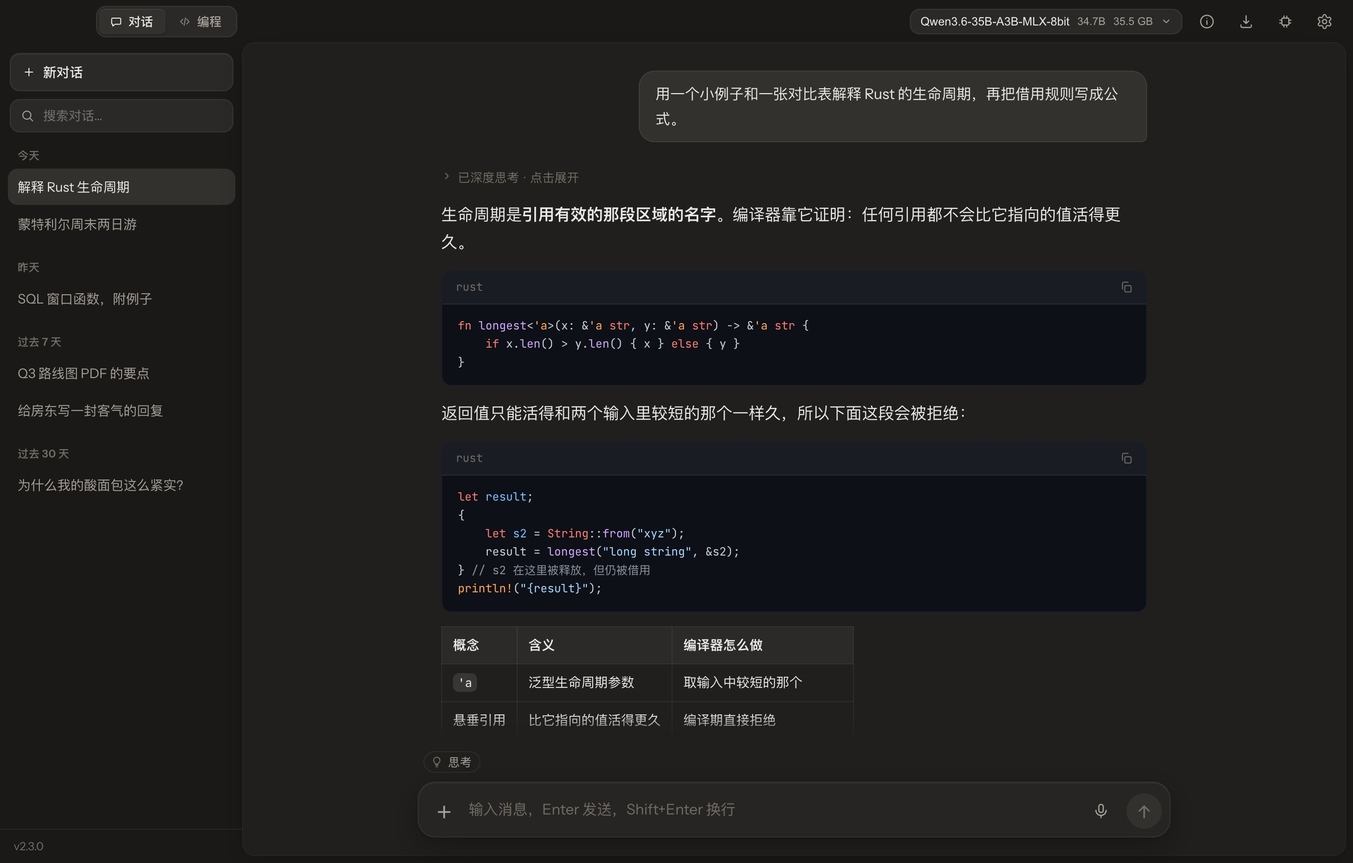
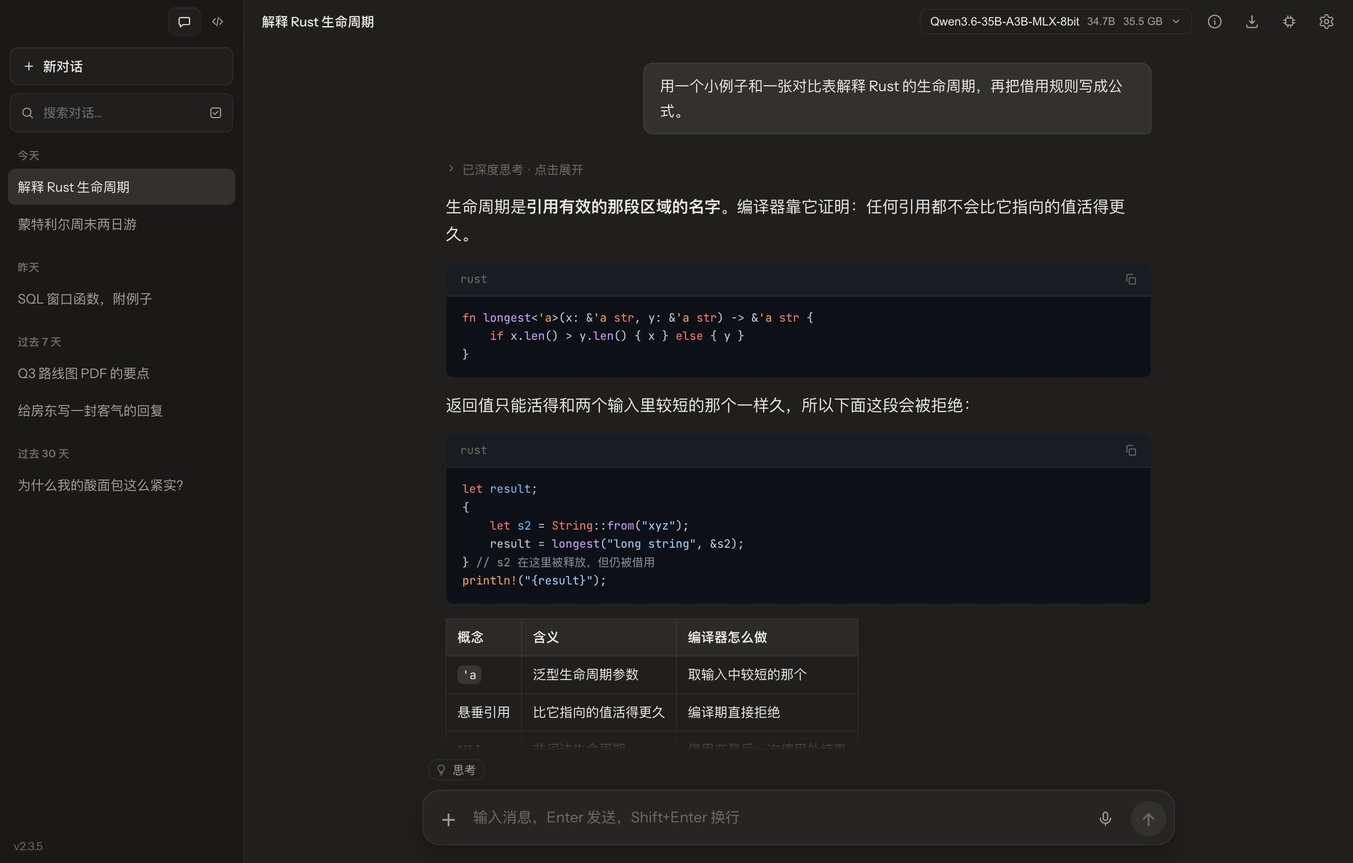
v2.3.5: Make it sing
Text-to-music models load and turn the app into a music studio (PR #22):
YuE2, ACE-Step 1.5, MiniMax Music 3, HeartMuLa, Stable Audio 3 and
MiDashengLM-Gen on audio.cpp, in a helper of its own. No title bar across
the window, the transcript passing under the top row; scrollbars drawn by
the app; Live mode's replies can be interrupted. The changelog's v2.3.0 entry
is back to what shipped; what came after is here. Screenshots, the share
card and the READMEs follow the new frame and the music studio.

diff --git a/CHANGELOG.md b/CHANGELOG.md
@@ -1,6 +1,6 @@
 # Changelog
 
-## Unreleased
+## v2.3.5 — Make it sing (2026-09-27)
 
 ### Music generation
 
@@ -60,6 +60,74 @@
   back to it; any option the engine reports beyond those is offered too.
   Settings → Music model holds the device, threads and the engine's own
   session options (weight types, attention, memory saving).
+
+### A lighter frame
+
+- **No title bar across the window.** The window is two columns: the
+  sidebar on the frame, and the working area — chat, Code and the studios
+  alike — running from the window's top, set off by one hairline. Over the
+  sidebar sit the window's controls and a mode switch of icons, at the
+  sidebar's edge and moving with it; over the working area, what is open
+  (the conversation, the session, Code's workspace) and the model and the
+  app's buttons, floating on the panel. The transcript passes under them and
+  fades out, with no bar where the row ends. The sidebar is one width in
+  every mode, and on a Mac the window buttons sit centred in the row.
+
+- **Code's thinking and bypass switches sit under its input**, as the image
+  studio's settings do; its workspace and background jobs are in the top
+  row.
+
+- **The working area runs to the window's edges** instead of stopping 8 px
+  short of its right and bottom ones (#20).
+
+- **Chaty draws its own scrollbars, everywhere** — lists, panels, menus, text
+  fields, code blocks, the canvas preview: a thin rounded thumb that firms up
+  under the pointer, in place of the system's in all but four places. The
+  composer's fade no longer washes out the transcript's scrollbar. Tick
+  boxes, number fields and a text field's resize grip are drawn by the app
+  too, and the model store's dialog dims the window like every other dialog.
+
+- **A narrow window keeps its buttons.** The top row gives way at the
+  model's name, its size figures first, and Code's workspace keeps a few
+  letters of its own.
+
+- Settings → About says what Chaty is now.
+
+### Live mode
+
+- **Interrupt a spoken reply.** While Live mode answers, an Interrupt button
+  joins End, fading in as End slides over. The reply stops, it is your turn
+  at once, and the model remembers what it had said up to there — not the
+  rest it had written, which nobody heard.
+
+- **The light has no edge.** Swelling with a voice, it ran past the top of
+  the canvas it is drawn on and ended at a straight line across the middle
+  of the screen; it now fades out long before any edge.
+
+### Sidebars
+
+- **Several sessions deleted at once in Code and the image studio,** as the
+  chat's conversations are (#20); the confirmation says their files go too.
+
+- **Code's sessions can be searched,** as the chat's conversations are: by
+  title as you type, and by what was said and done in them.
+
+### Models
+
+- **K2 Horizon's MLX quants load.** The ones on the Hub (mlx-community's
+  oQ4e, the MLX-4/6/8bit ones) are mlx-lm conversions that store the experts
+  stacked under mlx-lm's own name for them, and failed to load with a missing
+  `experts` weight; they load now, with the low / medium / high rungs (oQ4e:
+  30–36 tok/s on an M4 Pro).
+
+### Reliability
+
+- The window moves from its top edge whatever is over it — Live mode, a
+  dialog, a menu's click-catcher — and a plain click still reaches what is
+  there. On Windows, minimize, maximize and close stay above Live mode.
+- The microphone opens while the audio device is changing mode — a Bluetooth
+  headset going from playback to its headset mode — instead of failing with
+  "The requested stream configuration is not supported by the device".
 
 ## v2.3.0 — Put to work (2026-09-25)
 
@@ -134,10 +202,6 @@
   tags of its own, which the effort ladder picks through the template, and
   with thinking off both engines close the thought the way its own template
   does. On the edit stress set: MoVA-36B-A4B (MLX 4-bit) 5/5, 3.7B MLX 5/5.
-  The MLX quants on the Hub (mlx-community's oQ4e, the MLX-4/6/8bit ones) are
-  mlx-lm conversions that store the experts stacked under mlx-lm's own name
-  for them, and failed to load with a missing `experts` weight; they load now,
-  with the low / medium / high rungs (oQ4e: 30–36 tok/s on an M4 Pro).
 
 - **GLM-4.5 / 4.6 / 4.7 and MiniCPM5 tool calls.** GLM writes
   `<tool_call>name<arg_key>…`; read as JSON, the fallback for a template Chaty
@@ -248,13 +312,9 @@
 - Knowledge-base keyword search indexes every script — kana, Cyrillic,
   accented Latin, Indic marks, full-width letters.
 
-- **Several conversations deleted at once** — and Code's sessions and the
-  image studio's too. The tick box at the end of the sidebar's search (or a
-  Ctrl/⌘-click) starts a selection, Shift-click ticks a run, and one
-  confirmation deletes them all (#20).
-
-- **Code's sessions can be searched,** as the chat's conversations are: by
-  title as you type, and by what was said and done in them.
+- **Several conversations deleted at once.** The tick box at the end of the
+  sidebar's search (or a Ctrl/⌘-click) starts a selection, Shift-click ticks
+  a run, and one confirmation deletes them all (#20).
 
 - **Scrolling up while a reply is written stops following at once.** The
   transcript was pinned to the bottom with a smooth scroll on every frame, and
@@ -272,57 +332,36 @@
 
 ### Look and feel
 
-- **A quieter, more finished look.** The window is two columns: the sidebar
-  on the frame, and the working area — chat, Code and the image studio alike
-  — running from the window's top, set off by one hairline. There is no title
-  bar across it: over the sidebar, the window's controls and a mode switch of
-  icons that sits at the sidebar's edge and moves with it; over the working
-  area, what is open (the conversation, the image session, Code's workspace)
-  on the left and the model and the app's buttons on the right, the transcript
-  fading out beneath them. Instrument Sans and JetBrains Mono, bundled; the
-  composer floats; conversations are grouped by recency, their titles no
-  longer cut short by hidden row actions; code blocks get a header; step cards
-  join into one list, success ticks go quiet and only failures take colour.
-  The status dots, the breathing pulse and the green spinners are gone, and
-  the accent is kept for the primary action and real states. Code mode's
-  thinking and bypass switches sit under its input, as the image studio's
-  settings do, and its running status inside the composer, clear of the
+- **A quieter, more finished look.** The window is one frame with the working
+  area inset in it; Instrument Sans and JetBrains Mono, bundled; the composer
+  floats; conversations are grouped by recency, their titles no longer cut
+  short by hidden row actions; code blocks get a header; step cards join into
+  one list, success ticks go quiet and only failures take colour. The status
+  dots, the breathing pulse and the green spinners are gone, and the accent is
+  kept for the primary action and real states. Code mode's top bar belongs to
+  its panel, and its running status sits inside the composer, clear of the
   transcript's fade.
 
 - Menus are the app's own throughout — the model store's filters and the
   image studio's pickers were the OS's — and open upward when there is no
   room below.
 
-- **Edges that line up.** The working area runs to the window's edges
-  instead of stopping 8 px short of them, and the sidebar is one width in
-  every mode; the sidebar's footer rule that stopped at its edge is gone.
-  Corners are smaller — cards and menus 10 px, panels and fields 8 px — with
-  the composer and the pills left round. The model chip, the mode switch and
-  the sidebar's fields take the panel's tone instead of fading into the
-  frame, and menus stand off the page, the cream palette's by a step more
-  (#20).
+- **Edges that line up.** The working area stands the same distance from the
+  frame on every side, its top level with the sidebar's first control, and the
+  sidebar's footer rule that stopped at its edge is gone. Corners are smaller
+  — cards and menus 10 px, panels and fields 8 px — with the composer and the
+  pills left round. The title bar's model chip and mode switch and the
+  sidebar's fields take the panel's tone instead of fading into the frame, and
+  menus stand off the page, the cream palette's by a step more (#20).
 
-- **Chaty draws its own scrollbars, everywhere** — lists, panels, menus, text
-  fields, code blocks, the canvas preview: a thin rounded thumb that firms up
-  under the pointer, in place of the system's in all but four places. The
-  composer's fade no longer washes out the transcript's scrollbar. Tick boxes,
-  number fields and a text field's resize grip are drawn by the app too, and
-  the model store's dialog dims the window like every other dialog.
-
-- **A narrow window keeps its buttons.** The top row gives way at the
-  model's name, its size figures first, and Code's workspace keeps a few
-  letters of its own; on Windows, minimize, maximize and close were pushed
-  out of the window (#20).
+- **A narrow window keeps its buttons.** The title bar gives way at the
+  model's name, and below 900 px the mode switch keeps only its icons; on
+  Windows, minimize, maximize and close were pushed out of the window (#20).
 
 - **Live mode, redrawn.** In place of the green orb, a band of soft light
   along the bottom follows the conversation — rising with your voice while it
   listens, drifting while it thinks, brightening with its own voice as it
-  answers — under the reply as a large caption, with a round button to end.
-
-- **Interrupt a spoken reply.** While Live mode answers, an Interrupt button
-  joins End. The reply stops, it is your turn at once, and the model
-  remembers what it had said up to there — not the rest it had written,
-  which nobody heard.
+  answers — under the reply as a large caption, with one round button to end.
 
 ### Reliability
 
@@ -350,9 +389,8 @@
   inside a Chinese reply no longer fetches the English voice (300 MB from
   GitHub) to read a few words, which read as the Chinese voice downloading
   again (#20).
-- The window could not be moved while a model downloaded, or with Live mode
-  or a dialog open: its top edge moves it whatever is over it now. A
-  dialog's backdrop covered the window buttons on Windows (#20).
+- The window could not be moved while a model downloaded, and a dialog's
+  backdrop covered the window buttons on Windows (#20).
 
 ## v2.2.2 — While it runs (2026-09-17)
 

diff --git a/README.pt-BR.md b/README.pt-BR.md
@@ -38,7 +38,7 @@ com modelos abertos rodando inteiramente no seu Mac ou PC. Sem conta, sem nuvem,
 - **Um app, seis trabalhos.** Chat, um agente de programação, um estúdio de imagens, um estúdio de música, respostas a partir dos seus próprios documentos e uma voz para conversar — com os mesmos modelos locais, numa só janela. Sem servidor para rodar, sem porta, sem chave de API.
 - **Feito para o modelo que cabe no seu notebook.** Chamadas de ferramenta no formato em que cada modelo foi treinado, edições conferidas com o arquivo enquanto ainda estão sendo escritas, deslizes pegos no passo em que acontecem — para que um modelo pequeno termine trabalho de verdade. [Como →](#feito-para-o-que-modelos-pequenos-erram)
 - **GGUF e MLX, ambos nativos.** llama.cpp em Metal ou Vulkan em todas as plataformas, MLX no Apple Silicon, e uma loja de modelos que busca no Hugging Face e diz quais arquivos cabem na sua memória.
-- **Totalmente seu.** Modelos, conversas, documentos e imagens ficam numa pasta no seu disco. Sem conta, sem telemetria — apague a pasta e não sobra nada.
+- **Totalmente seu.** Modelos, conversas, documentos, imagens e músicas ficam numa pasta no seu disco. Sem conta, sem telemetria — apague a pasta e não sobra nada.
 
 ## Conteúdo
 
@@ -110,6 +110,13 @@ Roda no [stable-diffusion.cpp](https://github.com/leejet/stable-diffusion.cpp) n
 
 Carregue um modelo de texto para música e o app inteiro vira um estúdio de música, como um modelo de imagem o transforma num estúdio de imagens: sessões que se leem como conversas, as configurações recomendadas de cada família já preenchidas e uma porcentagem que acompanha a peça por cada etapa — escrever a partitura, compor, renderizar, decodificar.
 
+<picture>
+  <source media="(prefers-color-scheme: light)" srcset="docs/screenshots/shot-music-light.jpg" />
+  <img src="docs/screenshots/shot-music.jpg" width="860" alt="Estúdio de música do Chaty: uma canção do YuE2 rearranjada em outro estilo, a letra como pedido e a peça como uma forma de onda para tocar" />
+</picture>
+
+<sub>Uma canção do YuE2 rearranjada sobre a própria melodia num estilo novo — a letra como a sua vez, a peça como uma forma de onda para tocar, avançar e selecionar.</sub>
+
 - **As famílias que o audio.cpp roda** — YuE2 (letra virando uma música inteira, voz e banda juntas), MiniMax Music 3, ACE-Step 1.5, HeartMuLa, Stable Audio 3 e MiDashengLM-Gen, como pacotes GGUF do [audio.cpp](https://github.com/0xShug0/audio.cpp). O Chaty encontra os outros arquivos do pacote ao lado do modelo — um VAE, configurações, um tokenizador, as partes de um modelo de vários arquivos — ou baixa os que faltam num clique.
 - **Sua letra, ou nenhuma** — escreva a letra com marcações de seção, deixe-a para o modelo ou peça uma instrumental; o estilo é uma descrição em poucas palavras.
 - **Continue a partir de uma peça** — as edições de cada família sobre uma rodada anterior: o YuE2 rearranja uma peça sobre a própria melodia ou a continua de qualquer segundo, o ACE-Step repinta um trecho ou faz um cover em outro estilo, o Stable Audio faz uma variação ou preenche um trecho de novo.
@@ -127,9 +134,9 @@ Arraste PDFs, arquivos do Word, apresentações, planilhas, Markdown ou código.
 
 ## Voz
 
-O modo Live é uma conversa sem as mãos: o Whisper escuta, o modelo responde e uma voz local lê a resposta frase por frase — em inglês ou chinês. A fala roda na CPU, então nunca disputa a memória da GPU com o modelo. O silêncio envia sua vez; qualquer resposta pode ser lida em voz alta.
+O modo Live é uma conversa sem as mãos: o Whisper escuta, o modelo responde e uma voz local lê a resposta frase por frase — em inglês ou chinês. A fala roda na CPU, então nunca disputa a memória da GPU com o modelo. O silêncio envia sua vez; interrompa uma resposta e a vez é sua na hora, com o modelo lembrando até onde falou. Qualquer resposta pode ser lida em voz alta.
 
-<img src="docs/screenshots/shot-live.jpg" width="860" alt="Modo Live do Chaty: a resposta como legenda sobre uma faixa suave de luz, com o botão para encerrar" />
+<img src="docs/screenshots/shot-live.jpg" width="860" alt="Modo Live do Chaty: a resposta como legenda sobre uma faixa suave de luz, com os botões para interromper e encerrar" />
 
 ## Feito para o que modelos pequenos erram
 
@@ -158,11 +165,11 @@ Qualquer GGUF roda no llama.cpp (Metal, ou Vulkan em NVIDIA, AMD e Intel); no Ap
 | MiniCPM5 · LFM 2.5 | O formato de chamada de cada família |
 | [Chaty · Qwen3.5-4B design](https://huggingface.co/stevenpr/chaty-qwen3.5-4b-design-GGUF) | Nosso próprio ajuste fino para páginas web de um arquivo — um clique na primeira execução |
 
-Um ajuste fino da comunidade cujo template de chat difere do palpite embutido do llama.cpp roda com o próprio template, como o transformers o rodaria.
+Um ajuste fino da comunidade cujo template de chat difere do palpite embutido do llama.cpp roda com o próprio template, como o transformers o rodaria. Modelos de texto para imagem e para música carregam do mesmo lugar; as famílias estão em [Imagem](#imagem) e [Música](#música).
 
 ## Privacidade
 
-Modelos, conversas, documentos e imagens ficam numa pasta no seu disco. Não há conta nem servidor nosso em que confiar — apague a pasta e não sobra nada.
+Modelos, conversas, documentos, imagens e músicas ficam numa pasta no seu disco. Não há conta nem servidor nosso em que confiar — apague a pasta e não sobra nada.
 
 A rede é usada só para: **busca na web e Deep Research**, quando você as liga; **downloads que você inicia** (modelos, vozes, arquivos de embedding); e **uma verificação de atualização** — um pedido ao GitHub pela versão mais recente, alguns segundos após abrir. Detalhes em [Privacidade e dados](https://chaty.ca/docs.html#privacy).
 

diff --git a/README.md b/README.md
@@ -38,7 +38,7 @@ on open models running entirely on your own Mac or PC. No account, no cloud, no 
 - **One app, six jobs.** Chat, a coding agent, an image studio, a music studio, answers from your own documents, and a voice to talk to — on the same local models, in one window. No server to run, no port, no API key.
 - **Built for the model that fits on your laptop.** Tool calls in the format each model was trained on, edits checked against the file while they're still being written, slips caught at the step they happen — so a small model finishes real work. [How it's done →](#built-around-what-small-models-get-wrong)
 - **GGUF and MLX, both native.** llama.cpp on Metal or Vulkan on every platform, MLX on Apple Silicon, and a model store that searches Hugging Face and tells you which files fit in your memory.
-- **Yours, completely.** Models, chats, documents and pictures live in a folder on your disk. No account, no telemetry — delete the folder and it's gone.
+- **Yours, completely.** Models, chats, documents, pictures and music live in a folder on your disk. No account, no telemetry — delete the folder and it's gone.
 
 ## Contents
 
@@ -110,6 +110,13 @@ It runs on [stable-diffusion.cpp](https://github.com/leejet/stable-diffusion.cpp
 
 Load a text-to-music model and the whole app becomes a music studio, the way an image model makes it an image studio: sessions that read like conversations, each family's recommended settings filled in, and a percentage that follows the piece through its stages — writing the score, composing, rendering, decoding.
 
+<picture>
+  <source media="(prefers-color-scheme: light)" srcset="docs/screenshots/shot-music-light.jpg" />
+  <img src="docs/screenshots/shot-music.jpg" width="860" alt="Chaty's music studio: a YuE2 song rearranged in a new style, its lyrics as the request and the piece as a waveform to play" />
+</picture>
+
+<sub>A YuE2 song rearranged on its own melody in a new style — the lyrics as your turn, the piece as a waveform to play, seek and select.</sub>
+
 - **The families audio.cpp runs** — YuE2 (lyrics to a whole song, voice and band together), MiniMax Music 3, ACE-Step 1.5, HeartMuLa, Stable Audio 3 and MiDashengLM-Gen, as [audio.cpp](https://github.com/0xShug0/audio.cpp)'s GGUF packages. Chaty finds a package's other files beside the model — a VAE, configs, a tokenizer, the parts of a multi-file model — or downloads the missing ones in one click.
 - **Your lyrics, or none** — write lyrics with section tags, leave them to the model, or ask for an instrumental; the style is a few words of description.
 - **Keep going from a piece** — each family's own edits of an earlier round: YuE2 rearranges a piece on its own melody or continues it from any second, ACE-Step repaints a stretch or covers it in a new style, Stable Audio makes a variation or fills a stretch in again.
@@ -127,9 +134,9 @@ Drop in PDFs, Word files, slides, spreadsheets, Markdown or code. Chaty indexes 
 
 ## Voice
 
-Live mode is a hands-free conversation: Whisper listens, the model answers, and a local voice reads the reply back sentence by sentence — in English or Chinese. Speech runs on the CPU, so it never competes with the model for GPU memory. Silence sends your turn; any answer can be read aloud.
+Live mode is a hands-free conversation: Whisper listens, the model answers, and a local voice reads the reply back sentence by sentence — in English or Chinese. Speech runs on the CPU, so it never competes with the model for GPU memory. Silence sends your turn; interrupt a reply and it's your turn at once, the model remembering what it said up to there. Any answer can be read aloud.
 
-<img src="docs/screenshots/shot-live.jpg" width="860" alt="Chaty's Live mode: the reply as a caption over a soft band of light, with the button to end" />
+<img src="docs/screenshots/shot-live.jpg" width="860" alt="Chaty's Live mode: the reply as a caption over a soft band of light, with the buttons to interrupt it and to end" />
 
 ## Built around what small models get wrong
 
@@ -158,11 +165,11 @@ Any GGUF runs on llama.cpp (Metal, or Vulkan on NVIDIA, AMD and Intel); on Apple
 | MiniCPM5 · LFM 2.5 | Each family's own tool-call format |
 | [Chaty · Qwen3.5-4B design](https://huggingface.co/stevenpr/chaty-qwen3.5-4b-design-GGUF) | Our own fine-tune for single-file web pages — one click at first launch |
 
-A community fine-tune whose chat template differs from llama.cpp's built-in guess is run with its own template, as transformers would run it.
+A community fine-tune whose chat template differs from llama.cpp's built-in guess is run with its own template, as transformers would run it. Text-to-image and text-to-music models load from the same place; their families are listed under [Image](#image) and [Music](#music).
 
 ## Privacy
 
-Models, conversations, documents and pictures live in a folder on your disk. There's no account and no server of ours to trust — delete the folder, and it's gone.
+Models, conversations, documents, pictures and music live in a folder on your disk. There's no account and no server of ours to trust — delete the folder, and it's gone.
 
 The network is used only for: **web search and Deep Research** when you turn them on; **downloads you start** (models, voices, embedding files); and **one update check** — a request to GitHub for the latest release, a few seconds after launch. Details in [Privacy & data](https://chaty.ca/docs.html#privacy).
 

diff --git a/README.zh-CN.md b/README.zh-CN.md
@@ -38,7 +38,7 @@
 - **一个应用，六种用途。** 对话、编程智能体、文生图工作室、文生音乐工作室、基于你自己文档的问答，还有能直接说话的语音——同一批本地模型，同一个窗口。不用跑服务，不占端口，不要 API key。
 - **为装得进笔记本的模型而设计。** 工具调用用每个模型训练时的格式，编辑在写出的过程中就和文件逐行比对，失误在出现的那一步就被纠正——让小模型也能把真活干完。[怎么做到的 →](#专门对付小模型会犯的错)
 - **GGUF 和 MLX 都是原生支持。** llama.cpp 在各个平台上跑 Metal 或 Vulkan，Apple Silicon 上原生跑 MLX；内置模型商店直接搜 Hugging Face，并告诉你哪些文件放得进你的内存。
-- **完全属于你。** 模型、对话、文档和图片都在你硬盘上的一个文件夹里。没有账号，没有遥测——删掉文件夹，就什么都不剩。
+- **完全属于你。** 模型、对话、文档、图片和音乐都在你硬盘上的一个文件夹里。没有账号，没有遥测——删掉文件夹，就什么都不剩。
 
 ## 目录
 
@@ -110,6 +110,13 @@
 
 加载一个文生音乐模型，整个应用就变成音乐工作室——和加载文生图模型进入图像工作室一样：会话读起来像对话，每个模型家族的推荐参数都已填好，百分比跟着作品走过每个阶段——写乐谱、作曲、渲染、解码。
 
+<picture>
+  <source media="(prefers-color-scheme: light)" srcset="docs/screenshots/shot-music-zh-light.jpg" />
+  <img src="docs/screenshots/shot-music-zh.jpg" width="860" alt="Chaty 音乐工作室：一首 YuE2 歌曲换了曲风重新编排，歌词是你的请求，作品是可以播放的波形" />
+</picture>
+
+<sub>一首 YuE2 歌曲沿用原旋律、换了曲风重新编排——歌词是你这一轮的输入，作品是可以播放、拖动、框选的波形。</sub>
+
 - **audio.cpp 支持的家族** —— YuE2（歌词直接变成整首歌，人声和伴奏一起生成）、MiniMax Music 3、ACE-Step 1.5、HeartMuLa、Stable Audio 3 和 MiDashengLM-Gen，使用 [audio.cpp](https://github.com/0xShug0/audio.cpp) 的 GGUF 包。Chaty 会在模型旁边找到包里的其他文件——VAE、配置、分词器、多文件模型的其余部分——缺的一键下载。
 - **自己写词，或者不写** —— 用段落标签写歌词，交给模型自由发挥，或者直接要纯音乐；曲风用几句话描述即可。
 - **从一首接着改** —— 每个家族有自己的多轮修改：YuE2 可以沿用原旋律改编，或从任意一秒开始续写；ACE-Step 可以重绘某一段，或换风格翻唱；Stable Audio 可以做变奏，或重新填充某一段。
@@ -127,9 +134,9 @@
 
 ## 语音
 
-实时对话模式完全不用动手：Whisper 听你说，模型回答，本地语音一句一句读出来——中文英文都行。语音在 CPU 上运行，不和模型抢显存。你一停下这一句就发出去；任何回答都能朗读。
+实时对话模式完全不用动手：Whisper 听你说，模型回答，本地语音一句一句读出来——中文英文都行。语音在 CPU 上运行，不和模型抢显存。你一停下这一句就发出去；回答到一半可以打断，马上轮到你说，模型记得自己说到了哪里。任何回答都能朗读。
 
-<img src="docs/screenshots/shot-live-zh.jpg" width="860" alt="Chaty 实时对话模式：回答以字幕显示，底部是一片随声音起伏的柔光，下方是结束按钮" />
+<img src="docs/screenshots/shot-live-zh.jpg" width="860" alt="Chaty 实时对话模式：回答以字幕显示，底部是一片随声音起伏的柔光，下方是打断和结束按钮" />
 
 ## 专门对付小模型会犯的错
 
@@ -158,11 +165,11 @@
 | MiniCPM5 · LFM 2.5 | 各自家族的工具调用格式 |
 | [Chaty · Qwen3.5-4B 设计版](https://huggingface.co/stevenpr/chaty-qwen3.5-4b-design-GGUF) | 我们自己微调的单文件网页设计模型——首次启动一键安装 |
 
-社区微调模型的聊天模板和 llama.cpp 内置的猜测不一致时，Chaty 直接执行模型自己的模板，行为与 transformers 一致。
+社区微调模型的聊天模板和 llama.cpp 内置的猜测不一致时，Chaty 直接执行模型自己的模板，行为与 transformers 一致。文生图和文生音乐模型也从同一个地方加载，支持的家族见[文生图](#文生图)和[文生音乐](#文生音乐)。
 
 ## 隐私
 
-模型、对话、文档和图片，都放在你硬盘上的一个文件夹里。没有账号，也没有我们的服务器需要你信任——删掉那个文件夹，就什么都不剩。
+模型、对话、文档、图片和音乐，都放在你硬盘上的一个文件夹里。没有账号，也没有我们的服务器需要你信任——删掉那个文件夹，就什么都不剩。
 
 只有这些时候会用到网络：你打开的 **联网搜索与深度研究**；**你发起的下载**（模型、语音、向量模型文件）；以及 **一次更新检查**——启动几秒后向 GitHub 查询最新版本。详见[隐私与数据](https://chaty.ca/docs.html#privacy)。
 
